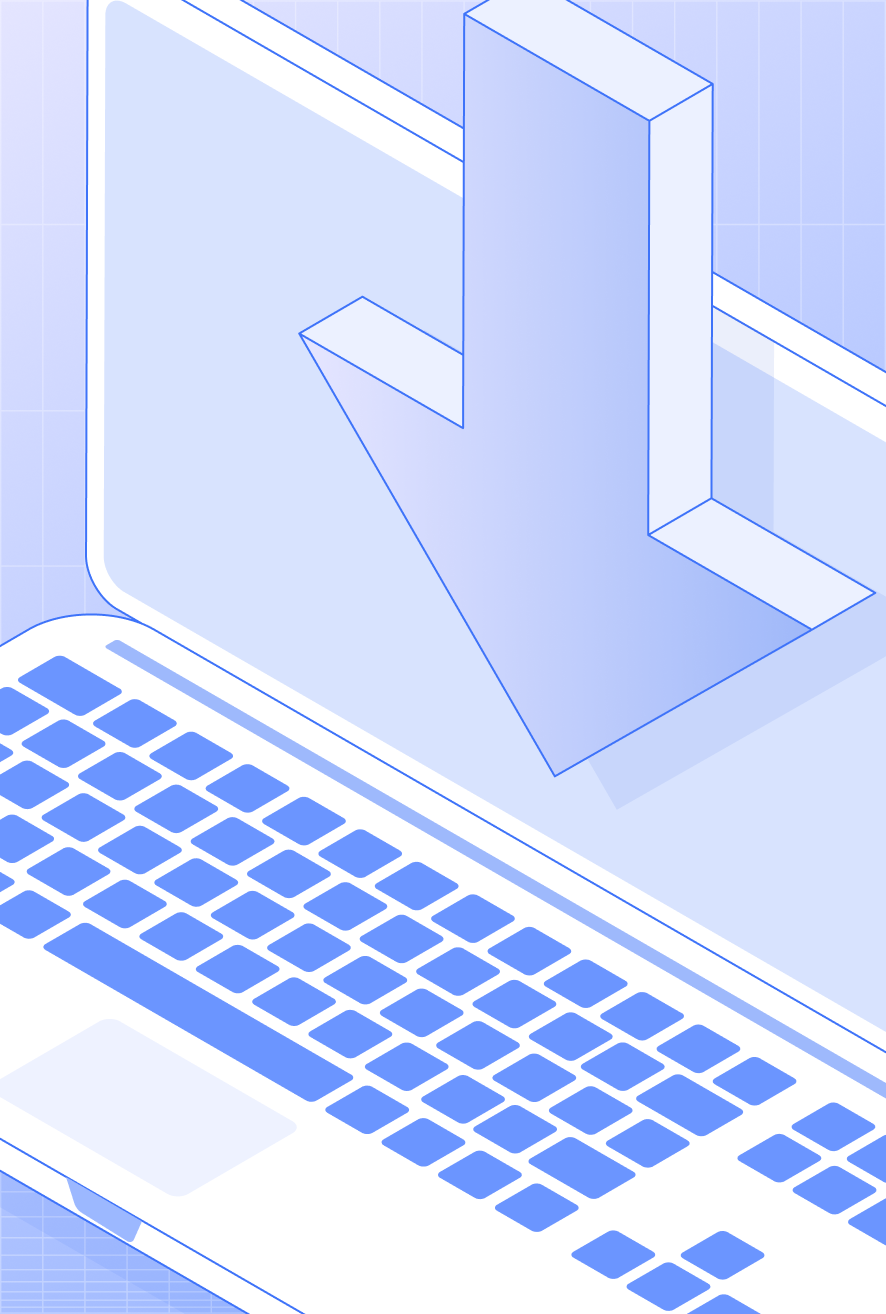
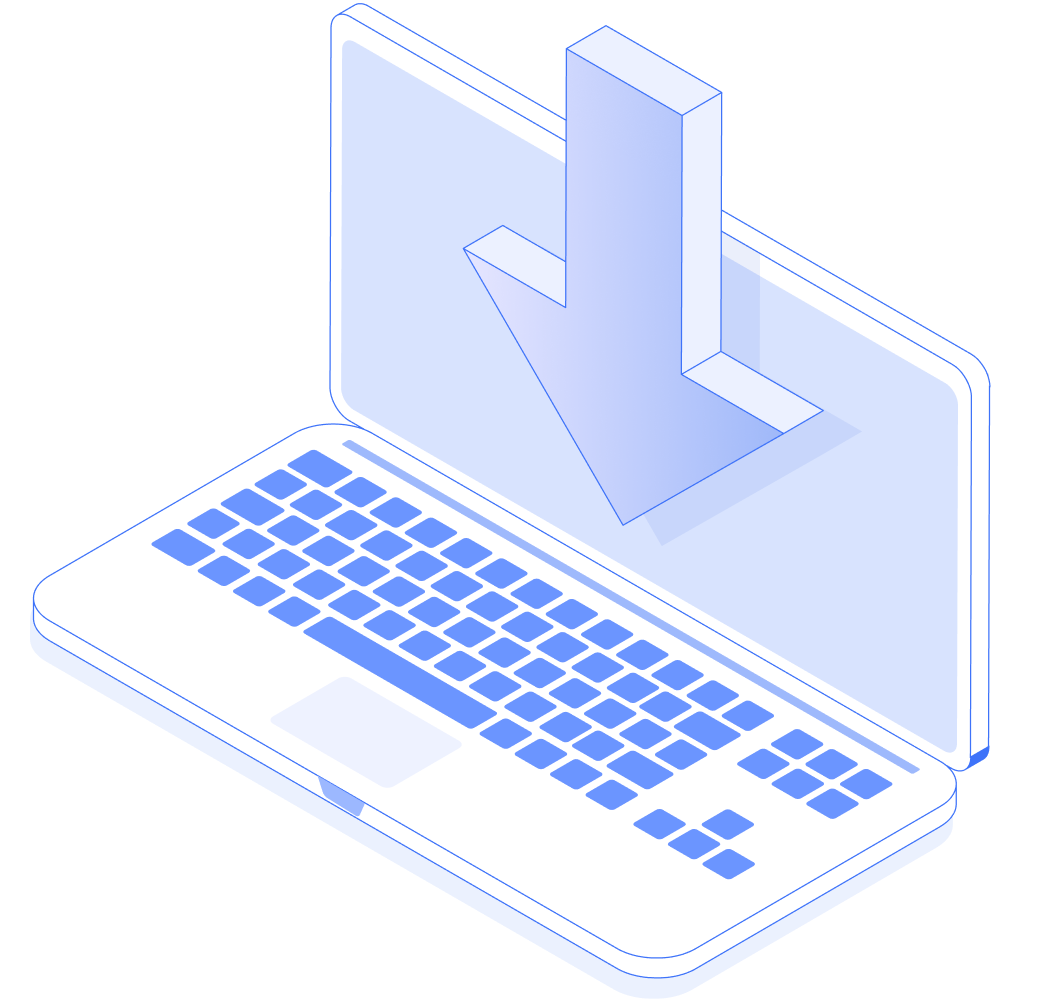
adjust photo

diff --git a/web/src/shared/components/modals/AppUpdateModal/AppUpdateModal.tsx b/web/src/shared/components/modals/AppUpdateModal/AppUpdateModal.tsx
@@ -57,7 +57,13 @@ export const AppUpdateModal = () => {
           {isPresent(modalData) && <ModalContent data={modalData} />}
         </div>
         <div className="media-track">
-          <img src={updateImage} alt="defguard update" />
+          <img
+            src={updateImage}
+            id="update-image"
+            width={842}
+            height={799}
+            style={{ top: -30, left: -220 }}
+          />
         </div>
       </div>
     </ModalFoundation>

diff --git a/web/src/shared/components/modals/AppUpdateModal/style.scss b/web/src/shared/components/modals/AppUpdateModal/style.scss
@@ -102,9 +102,6 @@
 
       img {
         position: absolute;
-        width: 100%;
-        height: 100%;
-        object-fit: cover;
       }
     }
   }
